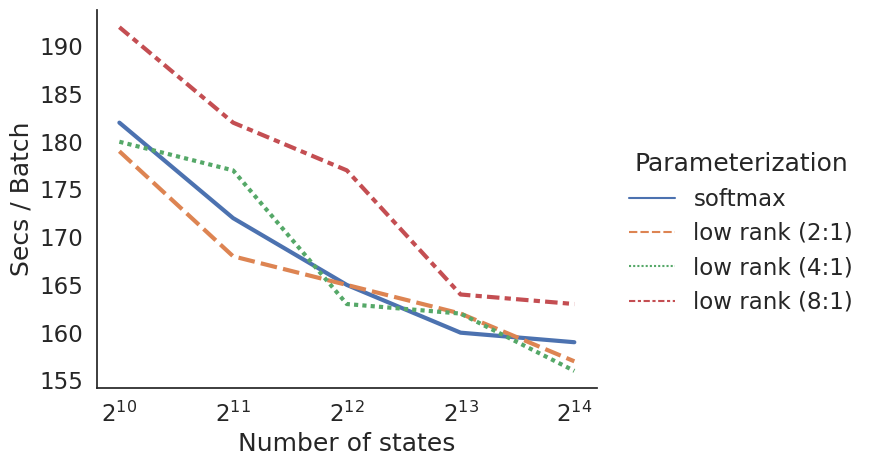
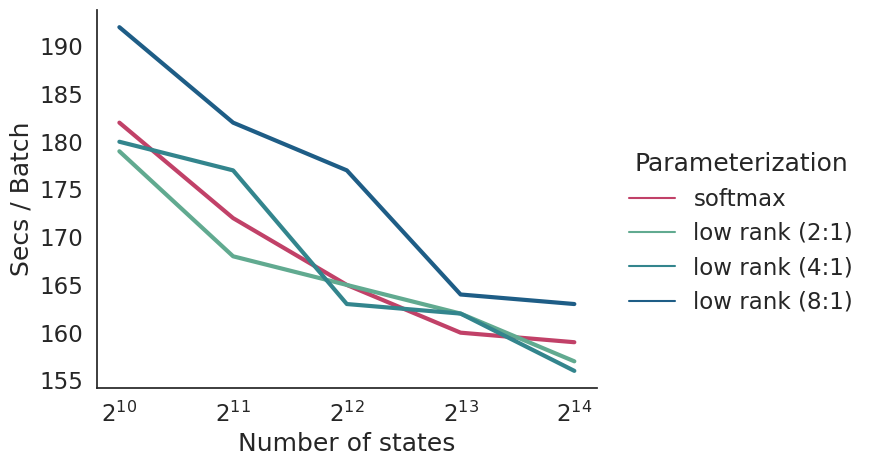
fix color

diff --git a/speed_accuracy_frontier.py b/speed_accuracy_frontier.py
@@ -10,6 +10,7 @@ import math
 #sns.set(font_scale=1.5)
 sns.set_theme(style="white", font_scale=1.5)
 
+pal = sns.color_palette("flare", 1) + sns.color_palette("crest", 3)
 
 # HMM
 acc_data = np.array([
@@ -88,6 +89,7 @@ hmm_df = pd.DataFrame(
 g = sns.relplot(
     data=hmm_df, x="speed", y="accuracy", hue="model", kind="scatter",
     size="size",
+    palette = (pal[0], pal[-1]),
 )
 g.set_axis_labels("Sec / Batch", "Valid PPL")
 #g.legend.set_title("Model")
@@ -161,6 +163,7 @@ pcfg_df = pd.DataFrame(
 g = sns.relplot(
     data=pcfg_df, x="speed", y="accuracy", hue="model", kind="scatter",
     size="states",
+    palette = (pal[0], pal[-1]),
 )
 #g.set_axis_labels("log(Batch / Sec)", "Valid PPL")
 g.set_axis_labels("Sec / Batch", "Valid PPL")

diff --git a/large_lhmm_states_feats.py b/large_lhmm_states_feats.py
@@ -97,7 +97,7 @@ ax.set_xscale("log", base=2)
 g.tight_layout()
 g.savefig("lhmm-states-features-speed-log.png")
 
-g = sns.relplot(data=df, kind="line", linewidth=3, aspect=1.3)
+g = sns.relplot(data=df, kind="line", linewidth=3, aspect=1.3, dashes=False, palette=pal)
 g.set_axis_labels("Number of states", "Secs / Batch")
 g.legend.set_title("Parameterization")
 ax = g.axes[0][0]
